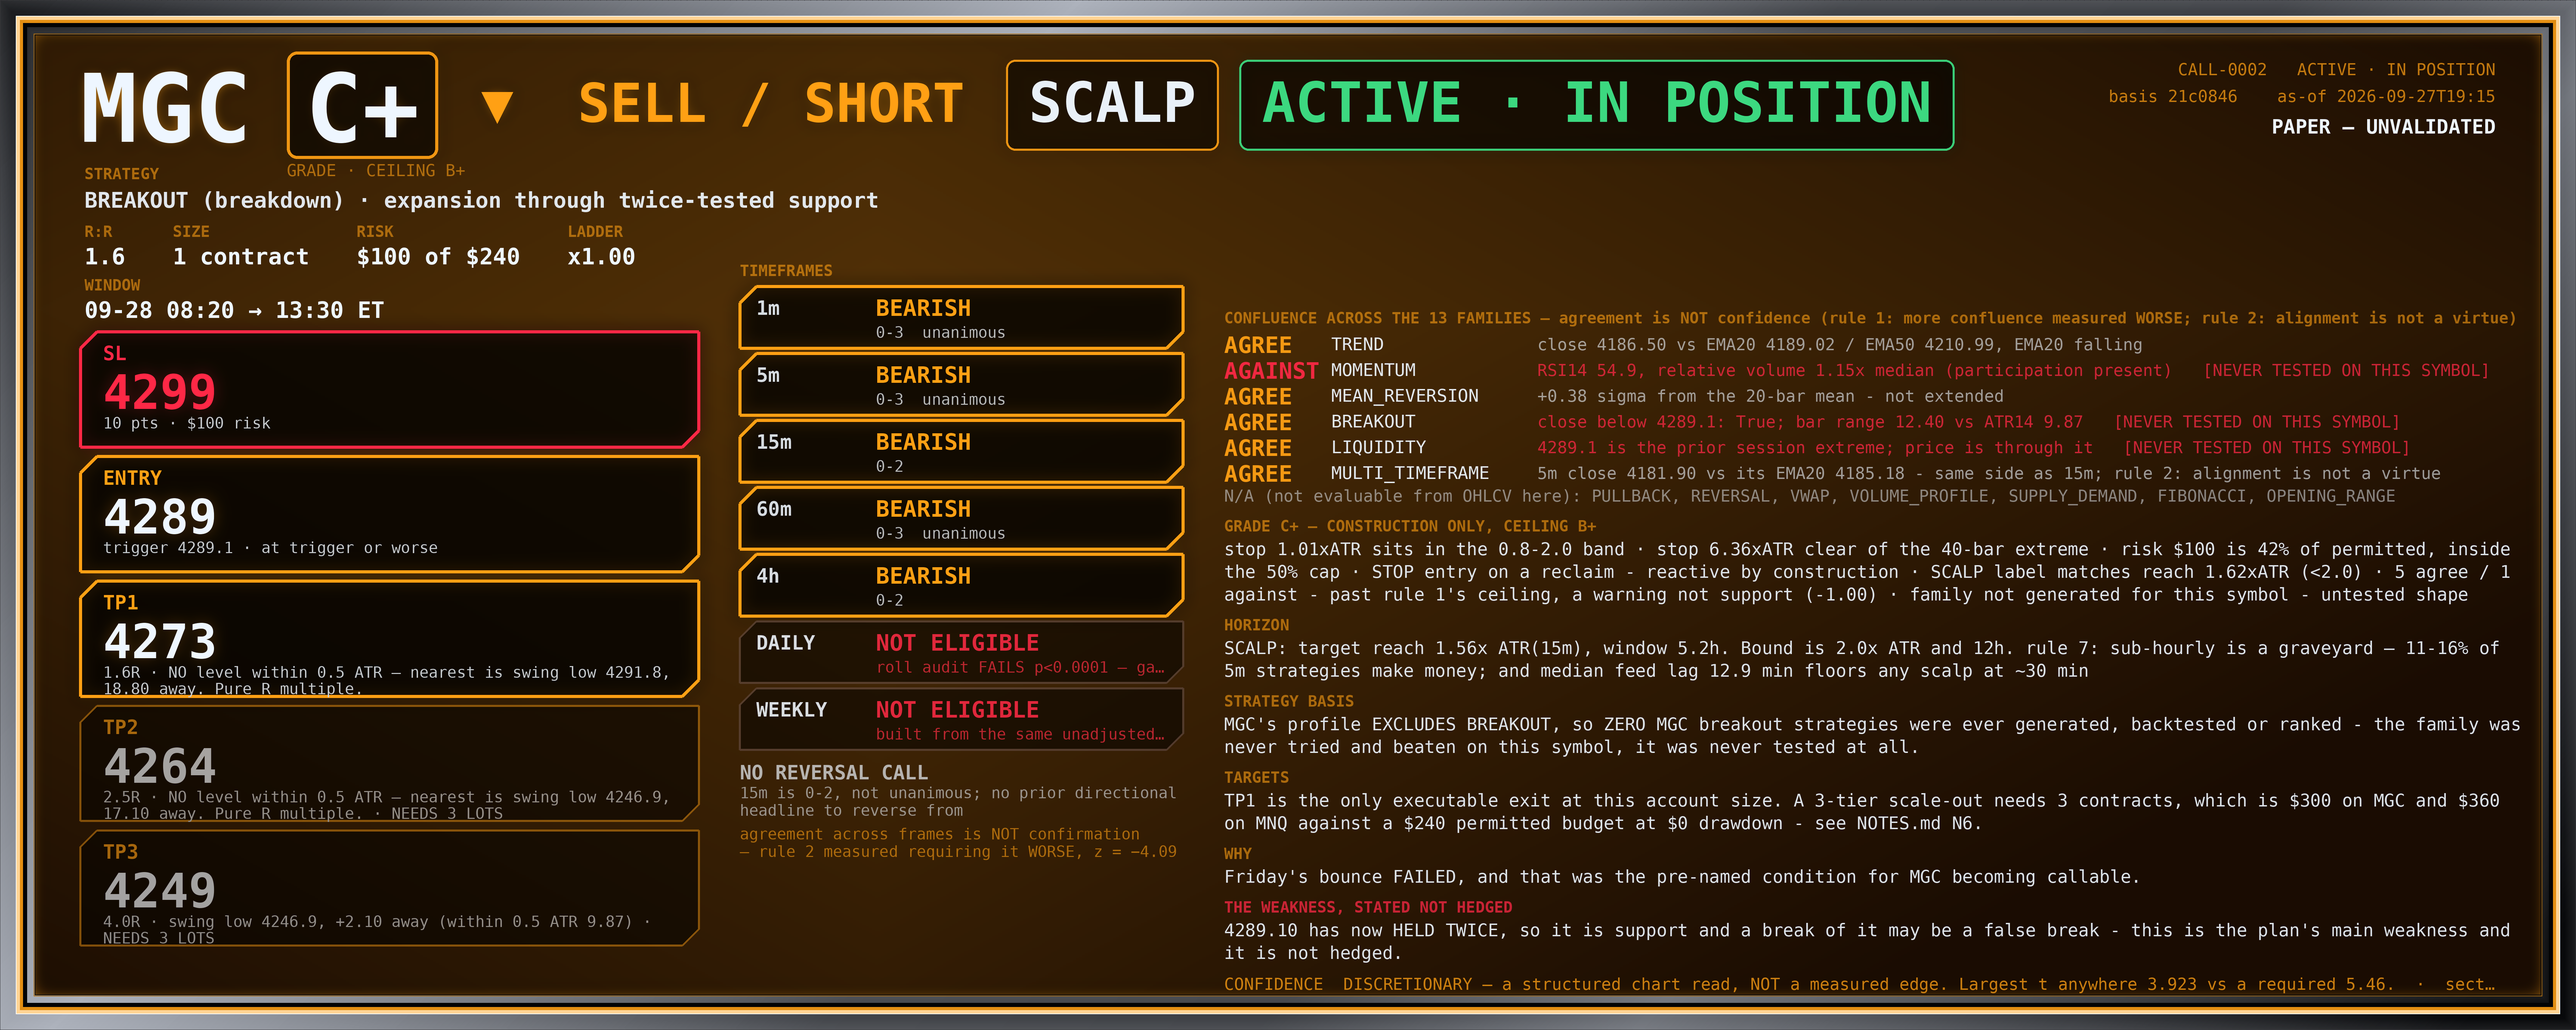
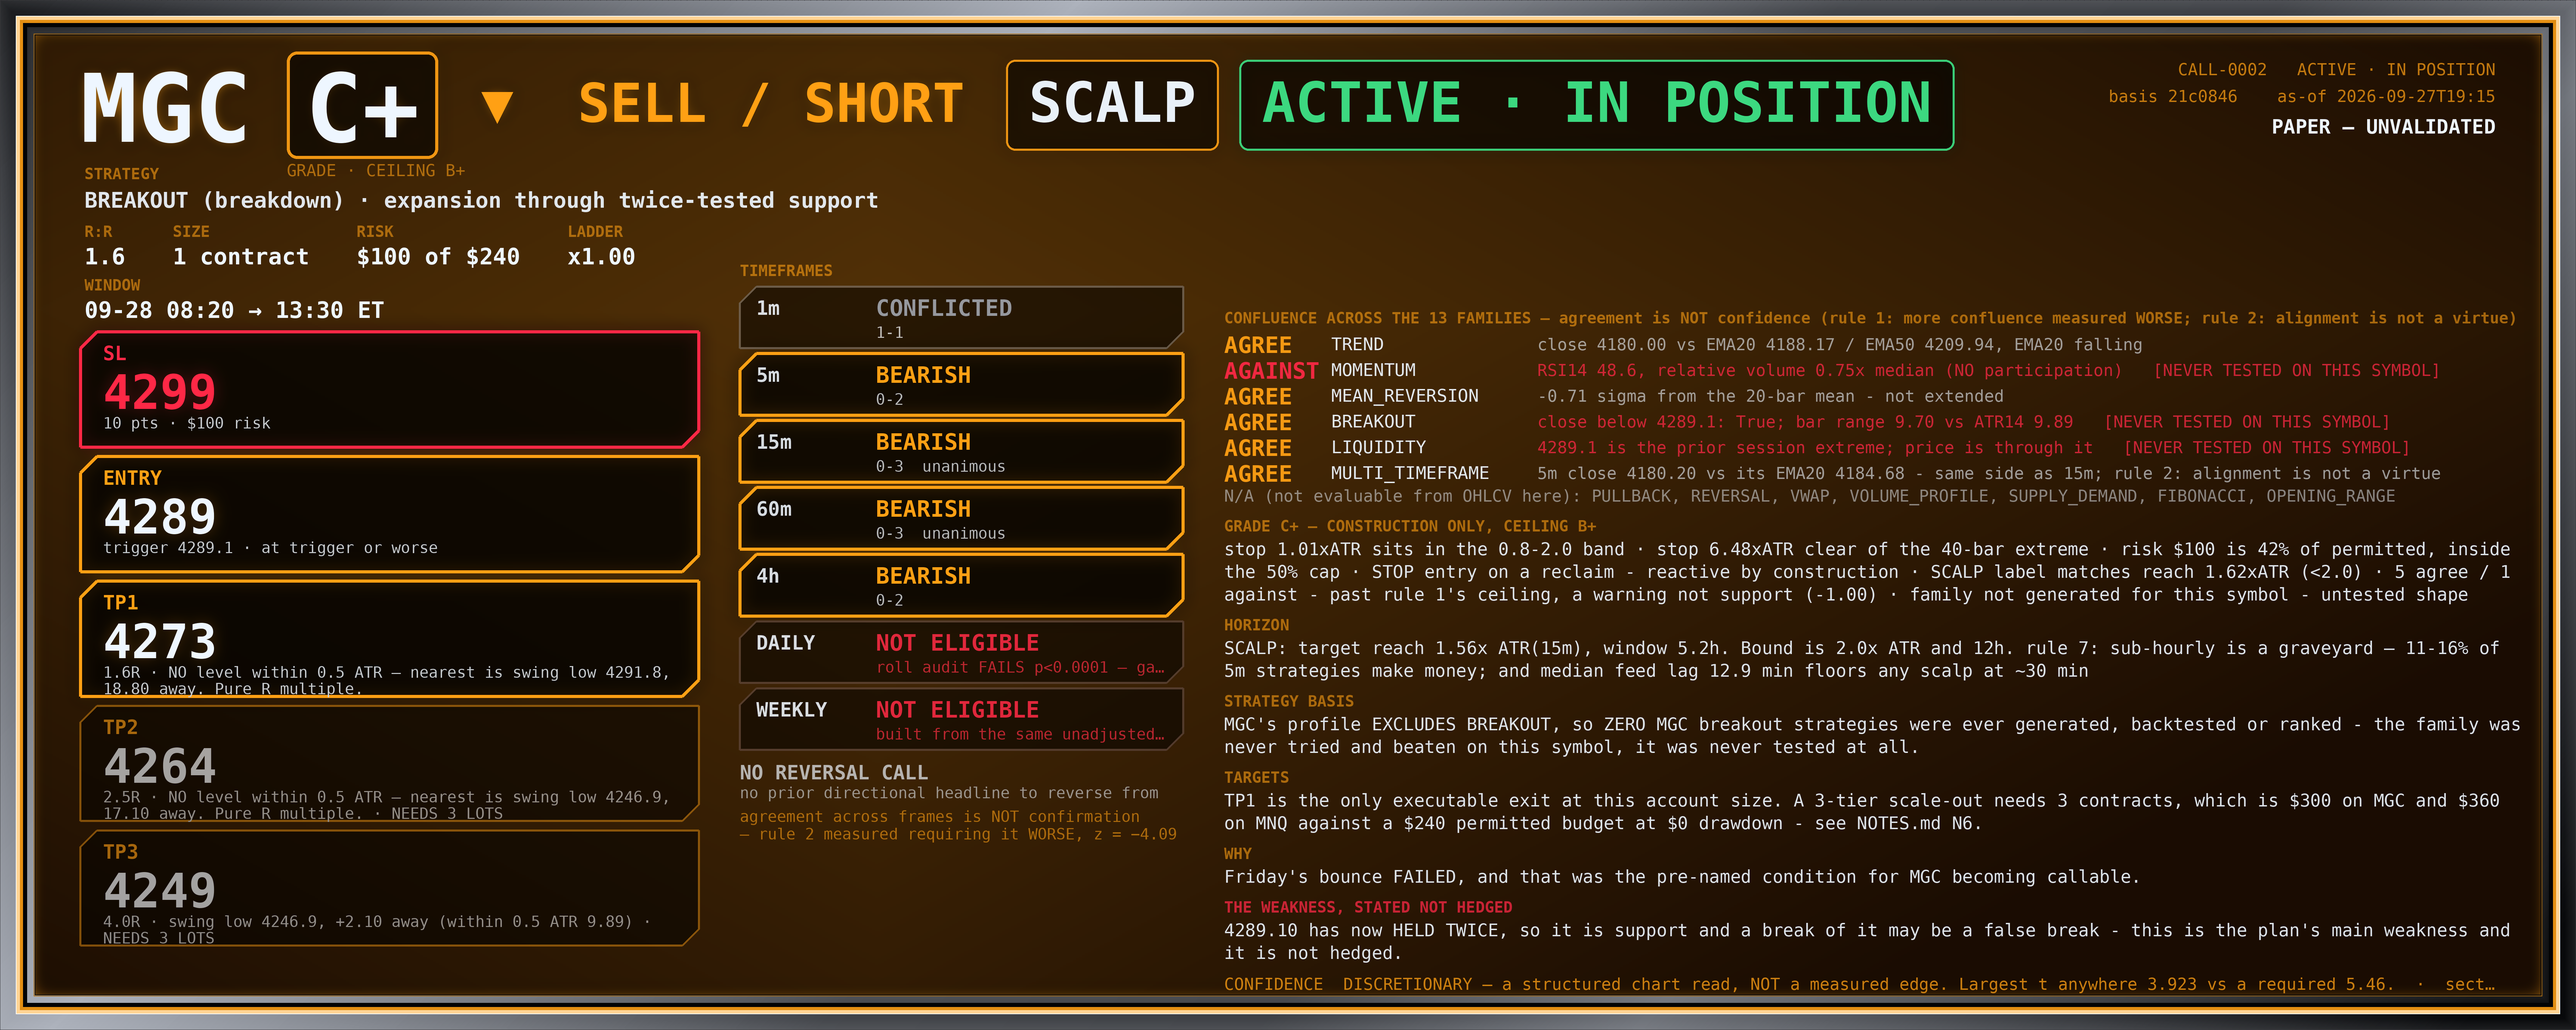
CALL desk: N166 - MGC's 15m is unanimous bearish again, so its reversal now fails on ONE condition, the one it can never satisfy
MGC's structure component flipped back to BEAR: swing highs 4203.80 -> 4187.80 (lower) and lows
4178.70 -> 4175.00 (lower). With trend and location also BEAR that makes 15m BEARISH 0-3 unanimous
for the first time since 07:45.

Against the noise floors: the lower high is 16.00 vs a 6.20 floor (2.58x, ESTABLISHED); the lower
low is 3.70 vs a 6.80 floor (inside noise, NOT established). So MGC's bear structure is
half-established - the mirror of MNQ's position at N123 where the high was real and the low was
not. Third time tonight a chart.py structure label has rested on one real leg and one artefact.

The consequence for reversal('MGC') is worth spelling out: its failure list has shrunk to exactly
one item, "no prior directional headline to reverse from". The unanimity condition now PASSES. So
MGC is one condition from a reversal call - and it is the one condition MGC cannot satisfy tonight
by any price action whatsoever, because a prior directional headline of opposite sign requires its
15m to have printed BULLISH at some point, and it has printed BEARISH or CONFLICTED for 349+
consecutive checks. MGC would have to first go bullish in order to become eligible to be called
bearish.

Not a defect - it is what "reversal" means, and a symbol that has only ever been bearish has
nothing to reverse. But worth recording beside N117's unreachable HTF gate: MGC has now been within
one condition of a reversal call twice tonight, in opposite directions, and both times the blocking
[…]

diff --git a/workspace/paper/CALL/NOTES.md b/workspace/paper/CALL/NOTES.md
@@ -5931,3 +5931,56 @@ No new call. MGC is fully bearish again with its reversal closed on all three co
 a called reversal with its plan unreachable, and buying a 37-point dip at 93.4% of range is the chase the
 procedure forbids. 1 open (excluded), 2 pending; equity $50,000.00, drawdown $0.00, full $2,800 to the absorbing
 state. **MNQ RTH opens 09:30 — 16 minutes — which is CALL-0005's expiry bar**, resolving on `09:45` around 10:01.
+
+## N166 — MGC's 15m is unanimous bearish again, so its reversal now fails on ONE condition — the one it can never satisfy
+
+MGC's structure component has flipped back to **BEAR**: swing highs `4203.80 -> 4187.80` (lower) and lows
+`4178.70 -> 4175.00` (lower). With trend BEAR and location BEAR that makes **15m BEARISH 0-3 unanimous** for the
+first time since 07:45.
+
+Measured against the noise floors, as always:
+
+- lower high **16.00** vs a 6.20 high-revision floor -> **2.58x, established**
+- lower low **3.70** vs a 6.80 low-revision floor -> **inside noise, NOT established**
+
+So MGC's bear structure is half-established — the mirror of MNQ's position at N123, where the high was real and
+the low was not. Half a turn in each direction is now the third time tonight a `chart.py` structure label has
+rested on one real leg and one artefact.
+
+**The consequence for `reversal('MGC')` is worth spelling out.** Its failure list has shrunk to exactly one item:
+
+    no reversal call - no prior directional headline to reverse from
+
+The unanimity condition now **passes**. So MGC is one condition from a reversal call — and it is the one condition
+**MGC cannot satisfy tonight by any price action whatsoever**, because a "prior directional headline of opposite
+sign" requires its 15m to have printed BULLISH at some point, and it has printed BEARISH or CONFLICTED for 349+
+consecutive checks. **MGC would have to first go bullish in order to become eligible to be called bearish.**
+
+That is not a defect — it is what "reversal" means, and a symbol that has only ever been bearish has nothing to
+reverse. But it is worth having on the record beside N117's unreachable HTF gate: **MGC has now been within one
+condition of a reversal call twice tonight, in opposite directions, and both times the blocking condition was
+structurally unsatisfiable rather than a matter of price.**
+
+## N167 — fourteenth settled pair, and MNQ's pullback is deepening
+
+| symbol | settled `08:30` | settled `08:45` | change |
+|---|---|---|---|
+| MGC | 4177.40 | **4186.50** | **+9.10** |
+| MNQ | 30727.50 | **30739.25** | **+11.75** |
+
+Both up on settled data. Settled tally since `04:15`: MGC **+9.60**, MNQ **+116.50**.
+
+But the unsettled tape has turned: **MNQ location 93.4% -> 78.3%** of [30535.00, 30753.75], its 1m now BEARISH
+0-2, and the 5m `09:05` bar `h 30713.00 l 30696.00 c 30706.25`. The pullback from N165 is deepening —
+30753.75 down to 30696.00 is **57.75 points, 1.22x** the 47.20 ATR. `reversal()` still called, `held 54`,
+`agreeing_frames [5, 1440, 10080]`, 15m still BULL 3-0 unanimous, swing highs updated `30736.00 -> 30753.75`.
+
+**CALL-0005's limit is 100.12 below the market with 11 minutes to its 09:30 expiry.** It has closed from 130.87
+to 100.12 as the pullback deepened, which is the first sustained movement toward it all session — and still needs
+100 points in 11 minutes, about 2.1x ATR. N151's prediction is unchanged.
+
+**The excluded position**: +6.20 points / **+$62.00** unrealised. MGC is fully bearish again apart from a
+CONFLICTED 1m, location **11.9%** of [4172.60, 4234.90].
+
+No new call. 1 open (excluded), 2 pending; equity $50,000.00, drawdown $0.00, full $2,800 to the absorbing state.
+**MNQ RTH opens 09:30 — 11 minutes.**
